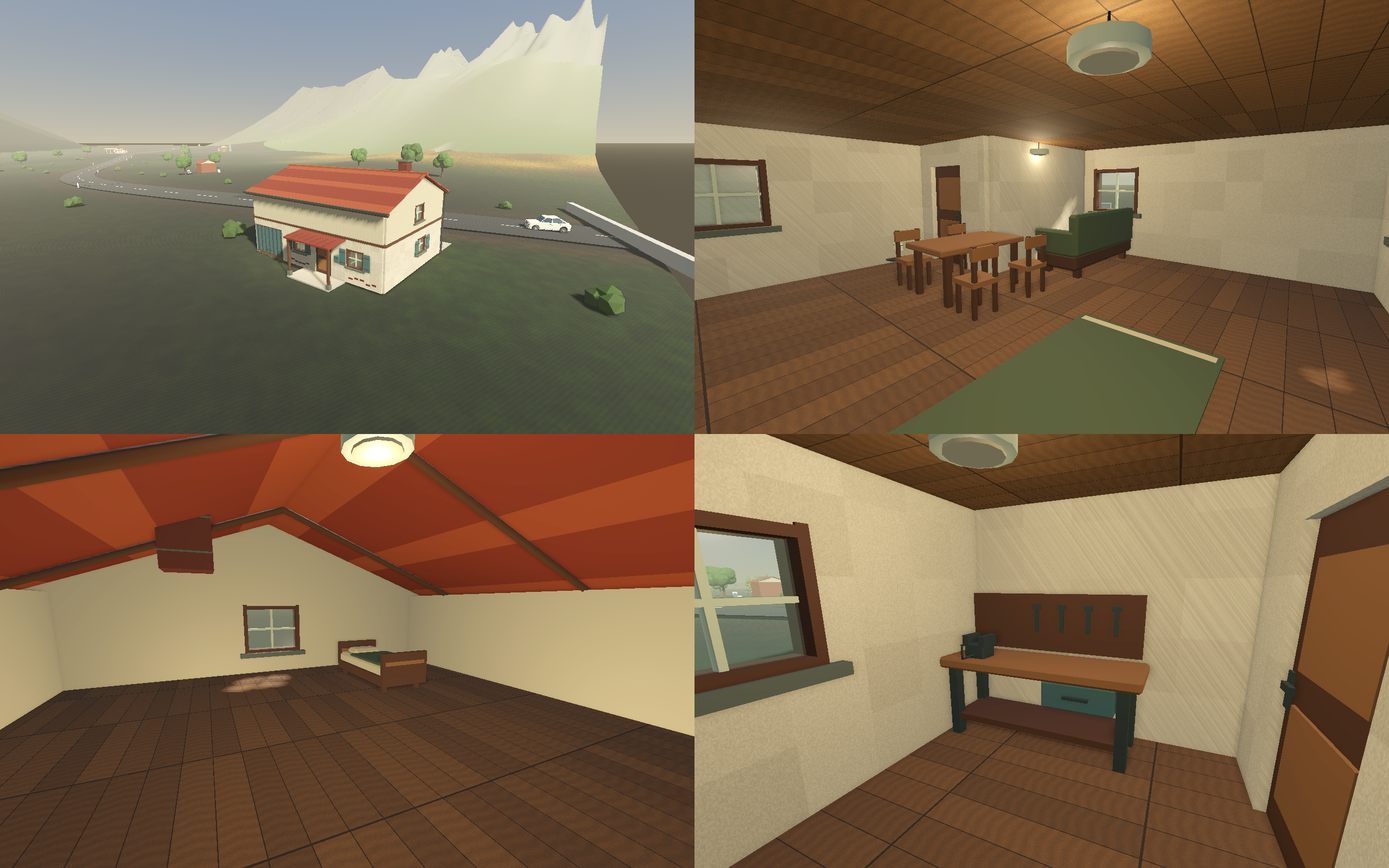
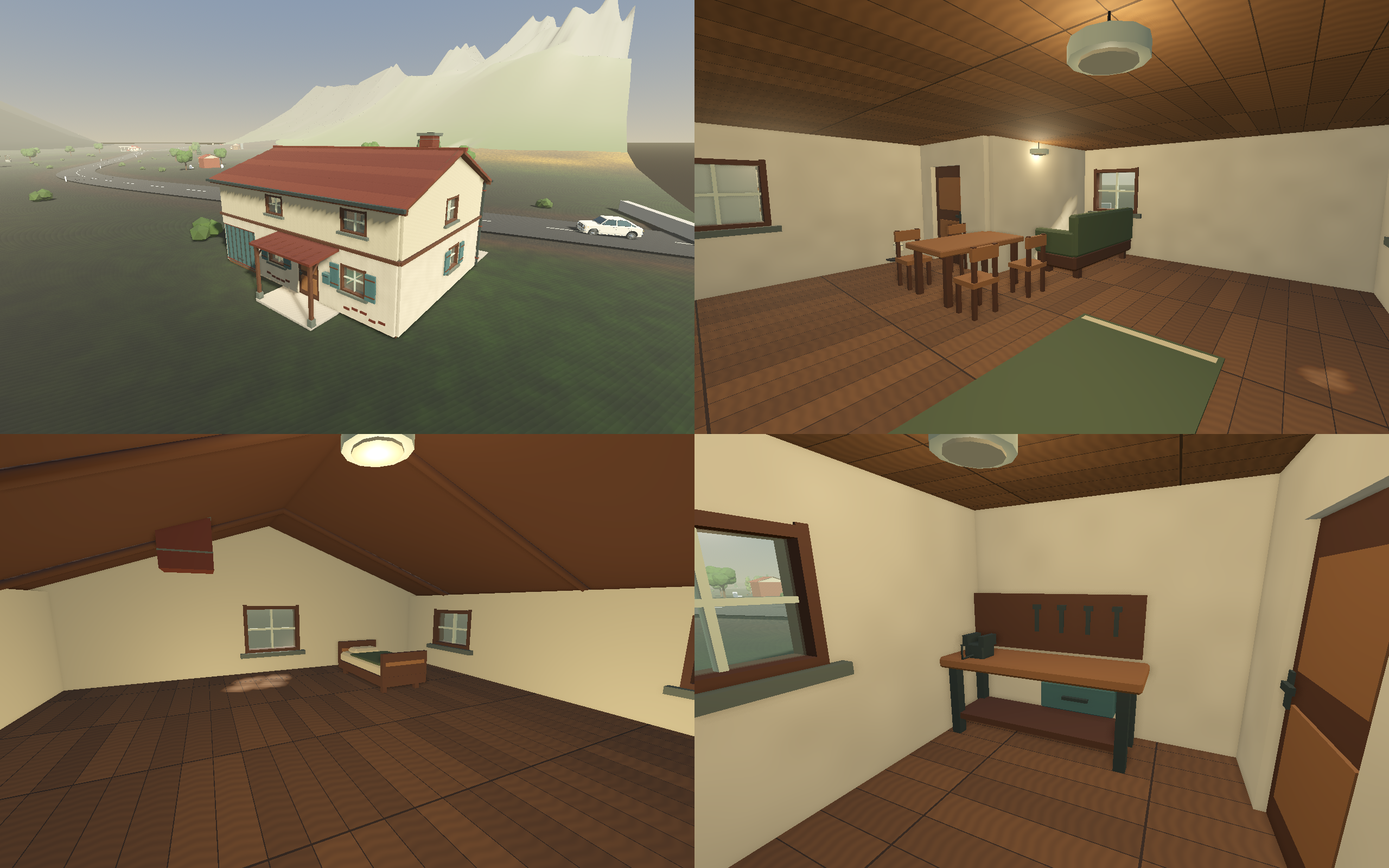
fix: retain furniture mesh interaction contract and verify house rendering

diff --git a/game/scripts/PlayerHouse.Art.cs b/game/scripts/PlayerHouse.Art.cs
@@ -1,4 +1,5 @@
 using Godot;
+using System.Linq;
 
 namespace Krntija.Game;
 
@@ -37,10 +38,13 @@ public static partial class PlayerHouse
     private static void AddFurniture(Node3D parent, string id, string use, Vector3 position, Vector3 size, bool solid = true)
     {
         var model = AddHouseModel(parent, id);
-        model.Name = "Use_" + use;
         model.Position = position;
         model.AddToGroup(StaticBatcher.SkipGroup);
-        if (solid) Blocker(model, size, new Vector3(0, size.Y / 2, 0));
+        var visual = model as MeshInstance3D
+            ?? model.FindChildren("*", nameof(MeshInstance3D), true, false).OfType<MeshInstance3D>().Single();
+        visual.Name = "Use_" + use;
+        visual.AddToGroup(StaticBatcher.SkipGroup);
+        if (solid) Blocker(visual, size, new Vector3(0, size.Y / 2, 0));
     }
 
     private static void DressDoor(Door door)

diff --git a/docs/PLAYER_HOUSE_ART.md b/docs/PLAYER_HOUSE_ART.md
@@ -55,6 +55,16 @@
 `--selftest-interact` проверяет доступность действий и обводку.
 Перед слиянием обязателен полный `tools/check.ps1`.
 
+Первый полный прогон выявил старый контракт проверки обводки: `Visual` верстака
+должен быть самим `MeshInstance3D`, а не контейнером GLB. Теперь `Use_*`
+присваивается мешу; его простая коллизия — дочерняя. Проверка снова проходит,
+ослабления теста не потребовалось.
+
+Для точного сравнения скорости `tools/house_art_perf.gd` фиксирует внутренний
+рендер 1920×1080: настройки игры иначе подгоняют окно под рабочий стол.
+Команда: `godot --path game --script ../tools/house_art_perf.gd -- --perf`.
+Добавить `--house-view`, чтобы дом был крупно в кадре.
+
 Обзор снимается с настоящего дома в мире кусками:
 
 ```powershell
